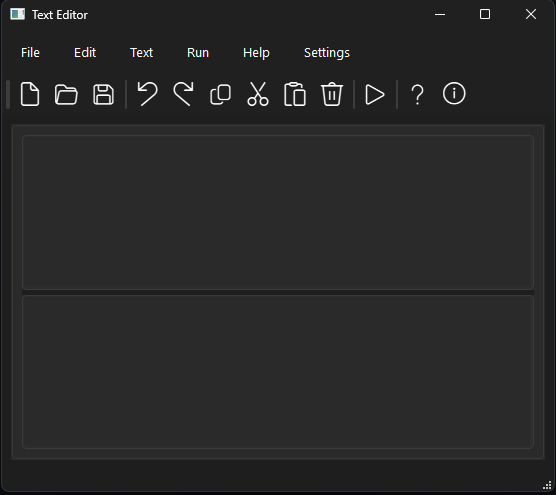
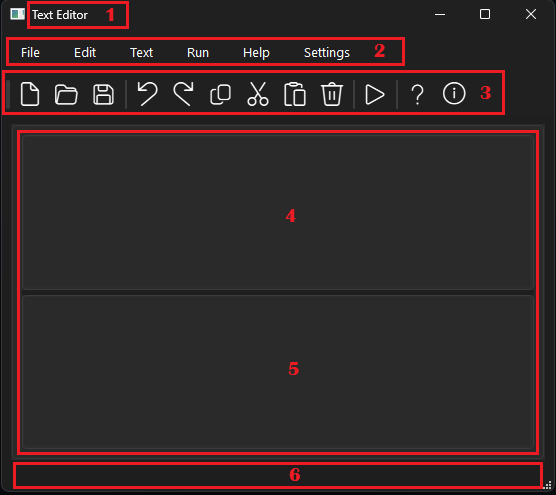
Update: interface ru and en images
add points

Changed region(s): [[0.0, 0.0, 0.9784, 1.0], [0.5198, 0.7273, 0.5504, 0.7576], [0.5198, 0.4242, 0.5504, 0.4545]]

diff --git a/text_editor.py b/text_editor.py
@@ -541,7 +541,7 @@ class TextEditor(QMainWindow, Ui_MainWindow):  # , Ui_MainWindow
             </head>
             <body>
                 <h1>Текстовый редактор</h1>
-                <div class='version'>Руководство пользователя | Версия 1.0</div>
+                <div class='version'>Руководство пользователя   </div>
 
                 <h2 id='intro'>Введение</h2>
                 <p><b>Текстовый редактор</b> — это приложение для создания и редактирования текстовых документов с возможностью синтаксического анализа. Программа предоставляет удобный интерфейс для работы с текстом и поддерживает все основные операции редактирования.</p>
